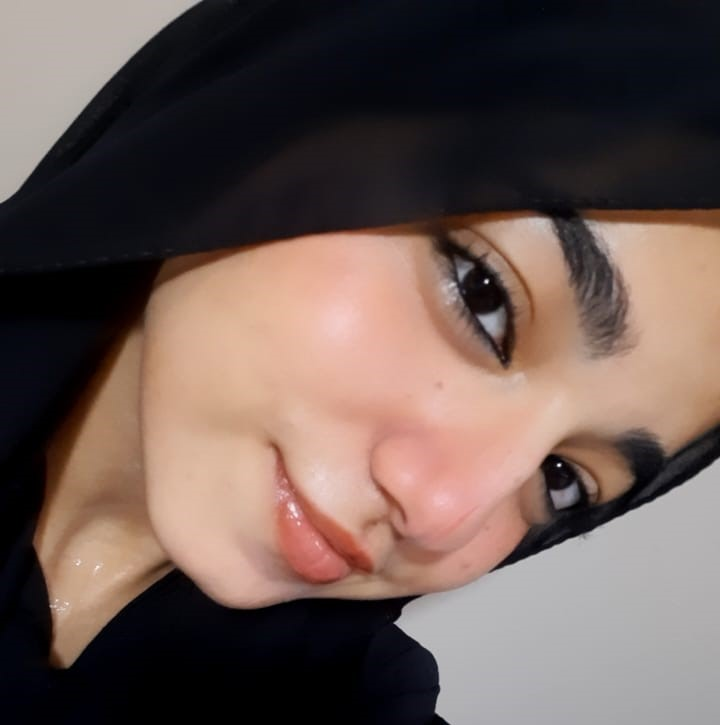
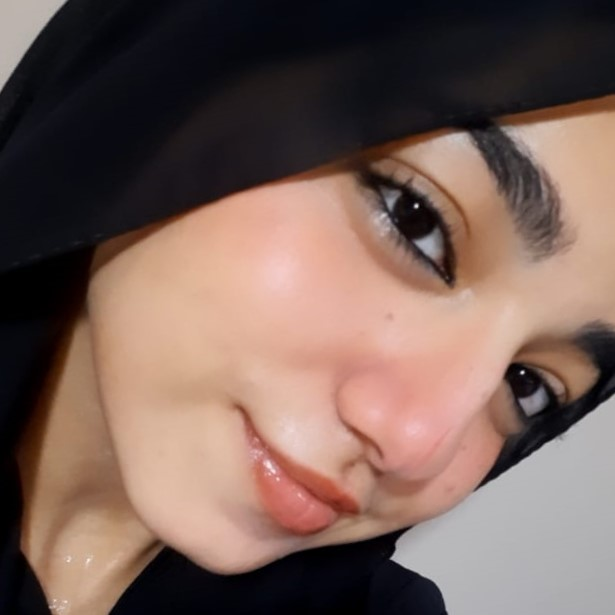
Update

diff --git a/Climate story tellers/stage/index.html b/Climate story tellers/stage/index.html
@@ -662,7 +662,7 @@
         <div class="col">
           <div class="card py-4">
             <div class="image">
-              <img src="./images/board/Jana.png" class="img-fluid" alt="President" />
+              <img src="./images/board/rahma.jpg" class="img-fluid" alt="President" />
             </div>
             <div class="card-body">
               <h5 class="card-title">Rahma Mohammed</h5>
